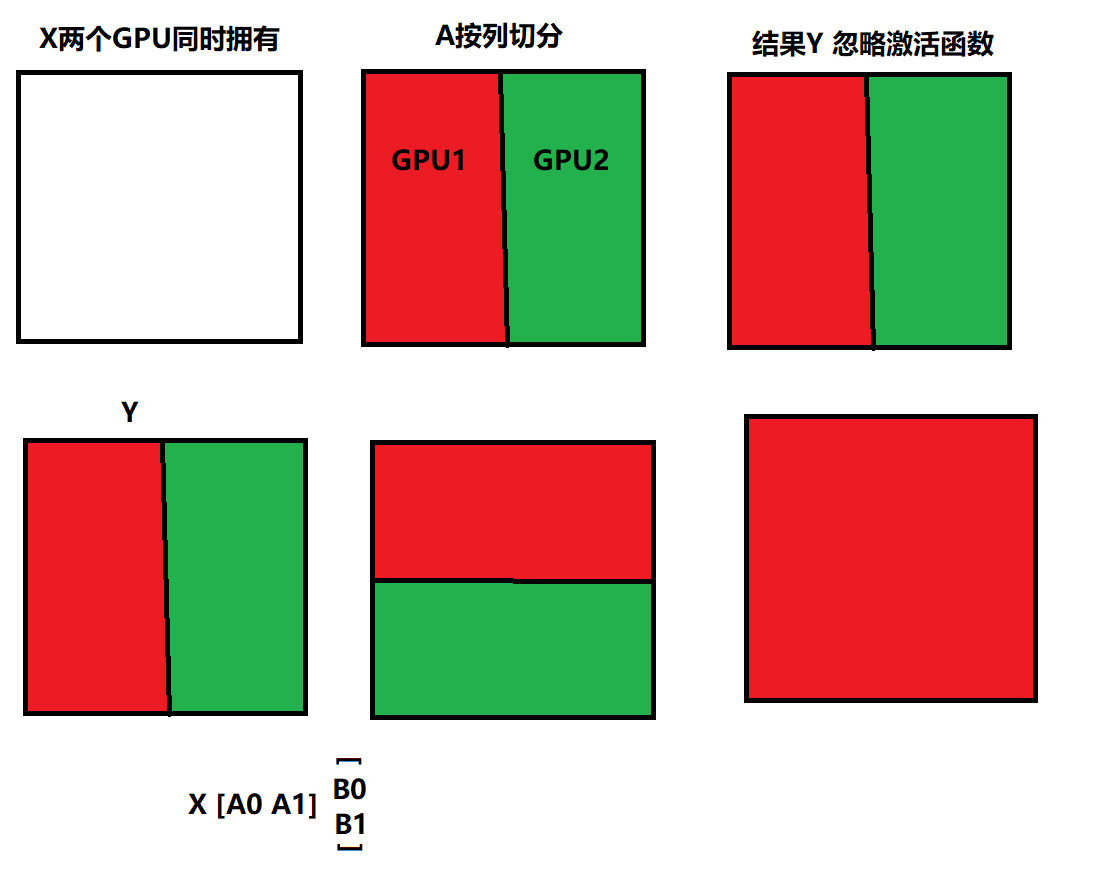
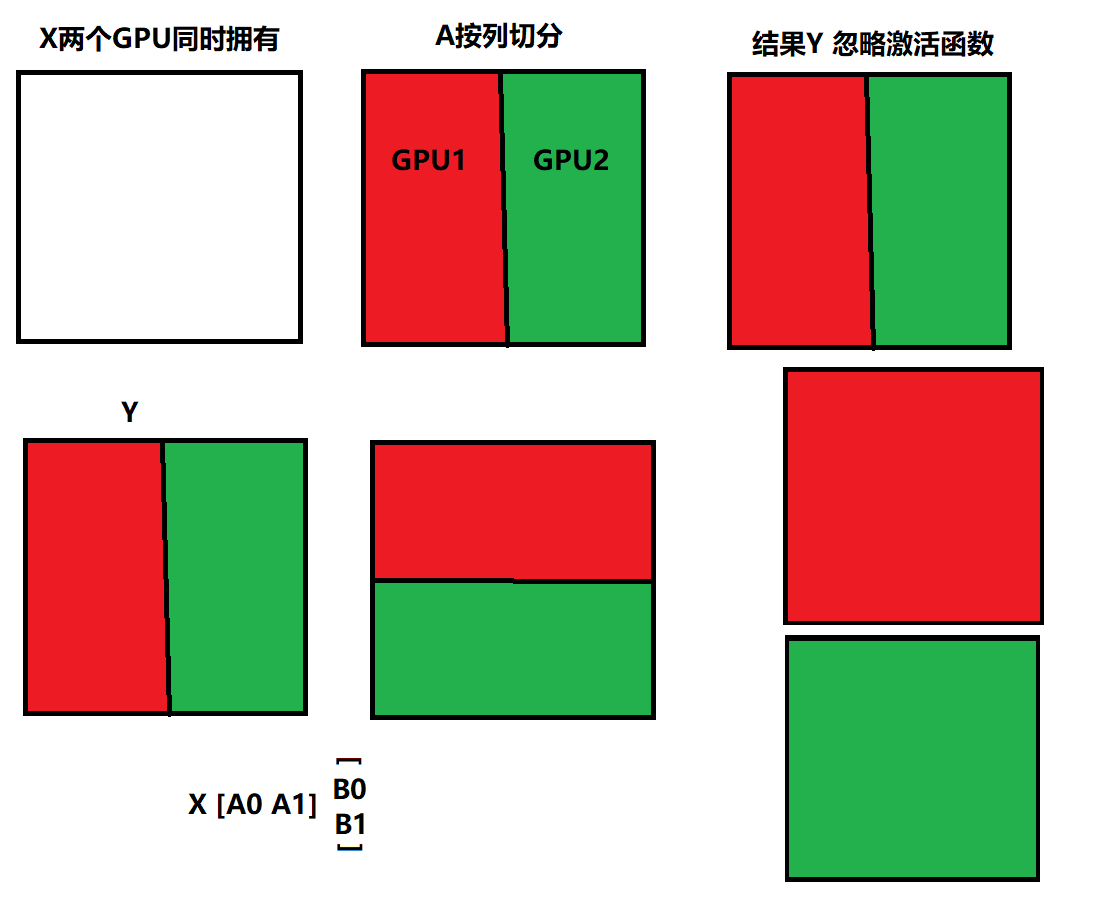
update

diff --git a/技术文档/LM/transformers/distributed.md b/技术文档/LM/transformers/distributed.md
@@ -16,9 +16,107 @@
 
 https://zhuanlan.zhihu.com/p/581677880
 
+数据并行大小 = 总的 GPU 数目 / 流水线并行大小 / 张量并行大小
+
+# 分布式训练中的集合通信
+
+## 快速总览
+
+![image-20250521140832944](distributed.assets/image-20250521140832944.png)
+
+## Reduce
+
+对所有节点的完整数据进行求和，但是结果只存在root节点。
+
+可以利用**环形拓扑**减少带宽竞争，规约与传输并行。
+
+![image-20250521140952484](distributed.assets/image-20250521140952484.png)
+
+## Scatter
+
+root节点将数据进分块，每个节点接收一块数据（例如GPU0接收第0块，GPU1接收第1块）
+
+![image-20250521141334875](distributed.assets/image-20250521141334875.png)
+
+## Reduce-Scatter
+
+即Reduce+Scatter。常用于ZeRO显存优化、梯度分片更新。每个节点仅存储`1/N`数据。
+
+![image-20250521141933077](distributed.assets/image-20250521141933077.png)
+
+## All-Gather
+
+将每个节点的部分数据汇总到**所有节点**，适用于TP、DP中的参数同步、全局统计信息聚合。
+
+![image-20250521141656495](distributed.assets/image-20250521141656495.png)
+
+1. **数据分块**：每个节点将本地数据划分为与节点数相同的块（如4节点则分4块）。
+2. **环形传递**：节点按逻辑环依次发送和接收数据块（例如节点1发送块1→节点2，同时接收节点4的块4）。
+3. **多轮迭代**：经过N-1轮（N为节点数），所有节点通过拼接累积数据块完成全局同步。
+
+**通信量与节点数无关**，适合大规模集群。总通信数据量为：
+$$
+(N-1)*单节点数据量，即 \frac{(N-1)}{N}*总数据量
+$$
+
+## All-Recuce
+
+将全局数据规约后同步至所有节点，等价于 **Reduce-Scatter + All-Gather**。
+
+主流框架（如PyTorch DDP、DeepSpeed）采用 **Ring All-Reduce**，因其通信效率与节点数无关。Ring All-Reduce中节点被组织成一个逻辑环，数据在环中按顺序传输。
+
+1. 优点：通信效率高，适用于大规模集群。每个节点只与其邻居节点通信，减少了通信开销。
+2. 在节点数量较多时，通信轮数较多，可能导致延迟增加。
+
+3. 
+
+理论推导：https://zhuanlan.zhihu.com/p/504957661 https://zhuanlan.zhihu.com/p/17201336684
+
+参考**
+
+https://docs.nvidia.com/deeplearning/nccl/user-guide/docs/usage/collectives.html
+
+https://openmlsys.github.io/chapter_distributed_training/collective.html
+
+https://zhuanlan.zhihu.com/p/465967735
+
 # 张量并行
 
 ![无标题](distributed.assets/无标题.png)
+
+Megatron-LM中张量并行如下图。正向和反向传播各有两个All-Reduce操作，分别对应自注意力输出投影和FFN降维层的行并行计算。每个行并行线性层在前向传播时汇总分块输出（All-Reduce），反向传播时同步输入梯度（All-Reduce），从而在整体上形成两次All-Reduce的通信模式。
+
+![image-20250522184141052](distributed.assets/image-20250522184141052.png)
+
+# 序列并行
+
+对于长序列，激活值会占用许多显存，序列并行可以减少这些激活值所占的显存。
+
+Megatron-LM的序列并行是在张量并行的基础上，将Transformer层中的LayerNorm和Dropout的输入按输入长度（Sequence Length）维度进行了切分，使得各个设备上面只需要做一部分的Dropout和LayerNorm即可。好处：
+
+1. LayerNorm 和 Dropout 的计算被平摊到了各个设备上，减少了计算资源的浪费；
+2. LayerNorm 和 Dropout 所产生的激活值也被平摊到了各个设备上，进一步降低了显存开销。
+
+Megatron-LM中的序列并行+张量并行如下图所示。两者结合以后，通信方式有所改变。当有数据输入时，
+
+1. 首先计算注意力层，即张量并行层。此时需要Reduce-Scatter求和、分发结果，得到可以传入序列并行层的格式，即每个节点只有一块求和后的数据。图中为g¯
+2. 经过序列并行层Dropout和LayerNorm，此时需要All-Gather来汇聚结果，每个节点都将会拥有完整的数据块。图中为g
+
+![image-20250522184644955](distributed.assets/image-20250522184644955.png)
+
+在Megatron-LM同时开启序列并行和模型并行时，一个Transformer层完成一次前向传播或反向传播一共有2个All-Gather和2个Reduce-Scatter算子。因此，**通过添加序列并行并没有增加额外的通信开销**，反而在后向传播代码的实现上，还把Reduce-Scatter和权重梯度的计算做了重叠，进一步减少了通信所占用的时间，使得提高设备的FLOPs Utilization成为了可能。
+
+通过对Transformer层中所有Activation的消耗进行计算，发现在Transformer层里有一些操作是产生的激活值大，但计算量小。因此，就考虑干掉这一部分的激活值，通过选择性的进行激活重新计算（Selective Activation Recomputation）来进一步降低显存。与此同时，其他的激活值就通通保存，以节省重计算量。
+
+通过对激活值的占比分析，序列并行降低了4成左右的激活值开销。选择性激活重新计算（selective activation recompute）也降低了4成左右的激活值开销。当两个特性都打开的时候，总共可以降低8成左右的激活值开销，尽管比全部激活值重计算的结果要稍高，但是在吞吐率上的提升还是非常的明显的
+
+![image-20250522191031804](distributed.assets/image-20250522191031804.png)
+
+参考：https://zhuanlan.zhihu.com/p/659792351
+
+# 流水线并行
+
+
 
 
 
@@ -33,12 +131,33 @@ https://zhuanlan.zhihu.com/p/581677880
 
 
 
-# 通信
+# 权重并行
+
+权重并行可以理解为ZERO3中对模型参数的分片。它和张量并行的区别在于：
+
+1. 张量并行每个GPU持有一部分权重，MLP层或Attention层计算之后，通过All-Reduce汇总输出。即先计算再汇总
+2. 权重并行每个GPU同样持有一部分权重，先通过All-Gather汇总，然后正常做计算。即先汇总权重再计算。
+
+# 集合通信在分布式训练中的应用
+
+## 数据并行
 
 
 
-集群通信
 
-all-reduce
 
-https://zhuanlan.zhihu.com/p/504957661
+# 组网
+
+## demo1
+
+华为Atlas 800I A2推理服务器，单节点包含8个NPU芯片，形成多机组网架构。
+
+- 节点内拓扑。节点内通过Fullmesh形成全互联结构。
+- 节点间拓扑。节点间通过网络交换机互联，形成Start结构。
+
+![image-20250522124035662](distributed.assets/image-20250522124035662.png)
+
+## demo2
+
+https://openmlsys.github.io/chapter_distributed_training/cluster.html
+

diff --git a/开发文档/linux/linux工具.md b/开发文档/linux/linux工具.md
@@ -1,4 +1,4 @@
-# Tmux开启多个终端
+# Tmux
 
 ```bash
 # 新建会话
@@ -9,6 +9,41 @@ tmux split-window -h
 
 # ctrl+b o 切换窗口
 ```
+
+在 Tmux 中开启和管理多个窗口非常简单，以下是详细操作指南：
+
+### 1. 启动 Tmux
+
+```
+tmux
+```
+
+或指定会话名：
+
+```
+tmux new -s mysession
+```
+
+### 2. 窗口管理快捷键
+
+所有快捷键都需要先按 `Ctrl+b`（前缀键），然后按后续键：
+
+- **新建窗口**：`c`
+  （会在底部状态栏看到新增的窗口编号）
+- **切换窗口**：
+  - `0-9`：切换到指定编号窗口
+  - `n`：下一个窗口（next）
+  - `p`：上一个窗口（previous）
+  - `w`：窗口列表（可视化选择）
+- **重命名当前窗口**：`,`
+  （方便识别窗口用途）
+- **关闭当前窗口**：`&`
+
+### 4. 高级技巧
+
+- **分屏**：`Ctrl+b "`（水平分屏），`Ctrl+b %`（垂直分屏）
+- **会话分离**：`Ctrl+b d`（后台运行所有窗口）
+- **重新连接**：`tmux attach -t mysession`
 
 # rsync同步文件
 
